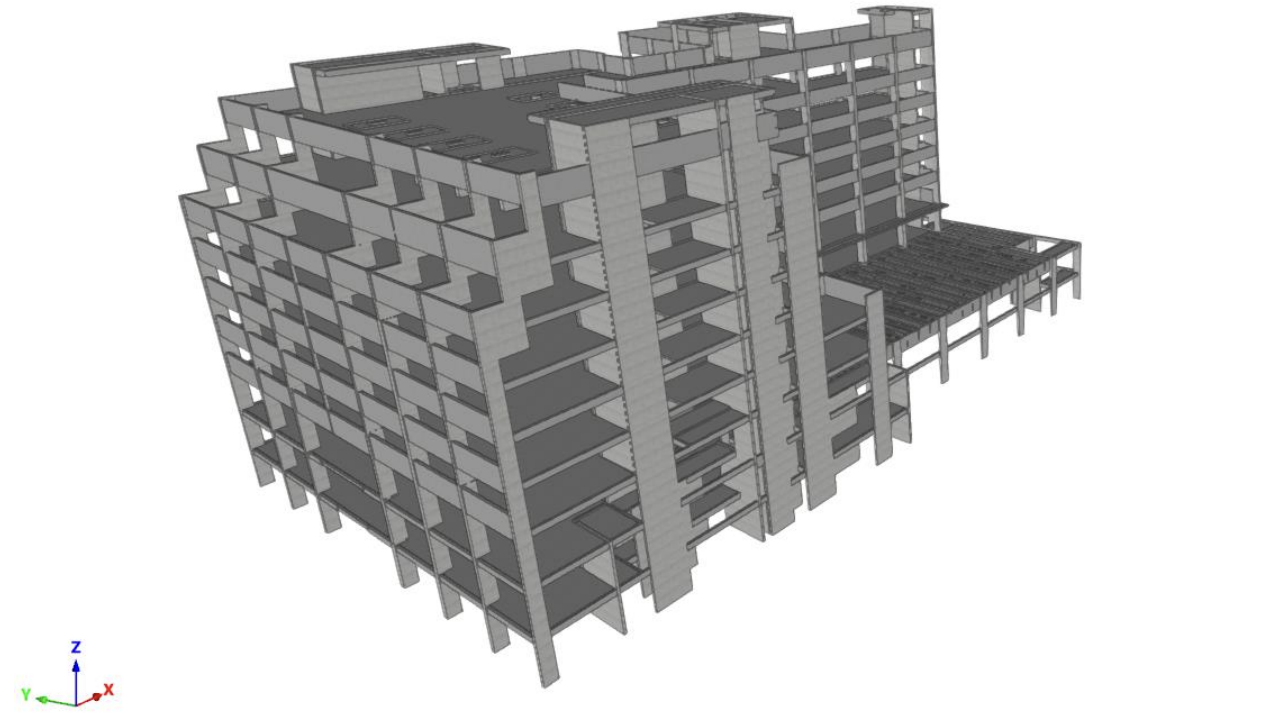
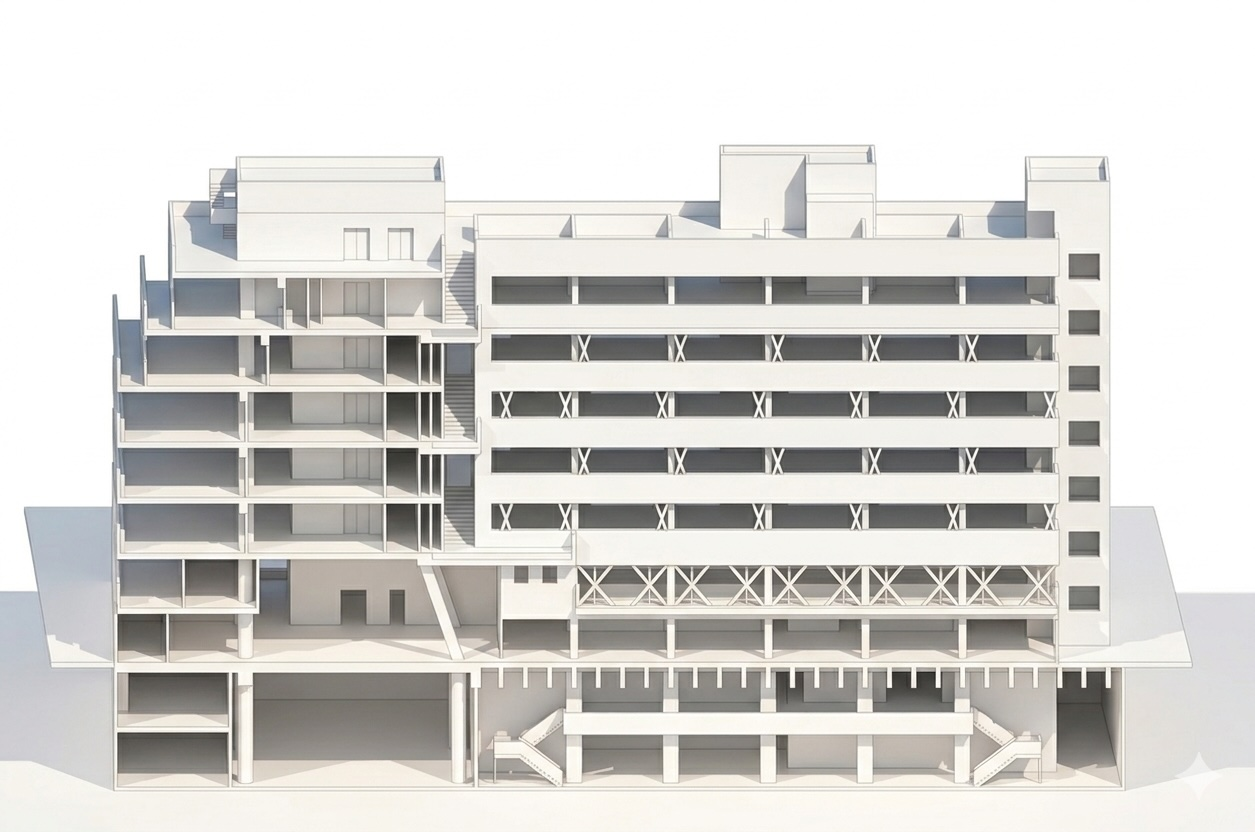
Avance de obra: actualiza imagen del edificio

diff --git a/index.html b/index.html
@@ -1666,7 +1666,7 @@ input[type=range]::-webkit-slider-thumb{appearance:none;-webkit-appearance:none;
 <!-- PRESENTATION -->
 
 <script>
-const APP_VERSION = 'v1.0.84';
+const APP_VERSION = 'v1.0.85';
 document.addEventListener('DOMContentLoaded',()=>{
   const el=document.getElementById('tb-ver');if(el)el.textContent=APP_VERSION;
   try { const saved=localStorage.getItem('sluis_rows'); if(saved){ window._sluisRows=JSON.parse(saved); renderSLuis(); } } catch(_) {}
